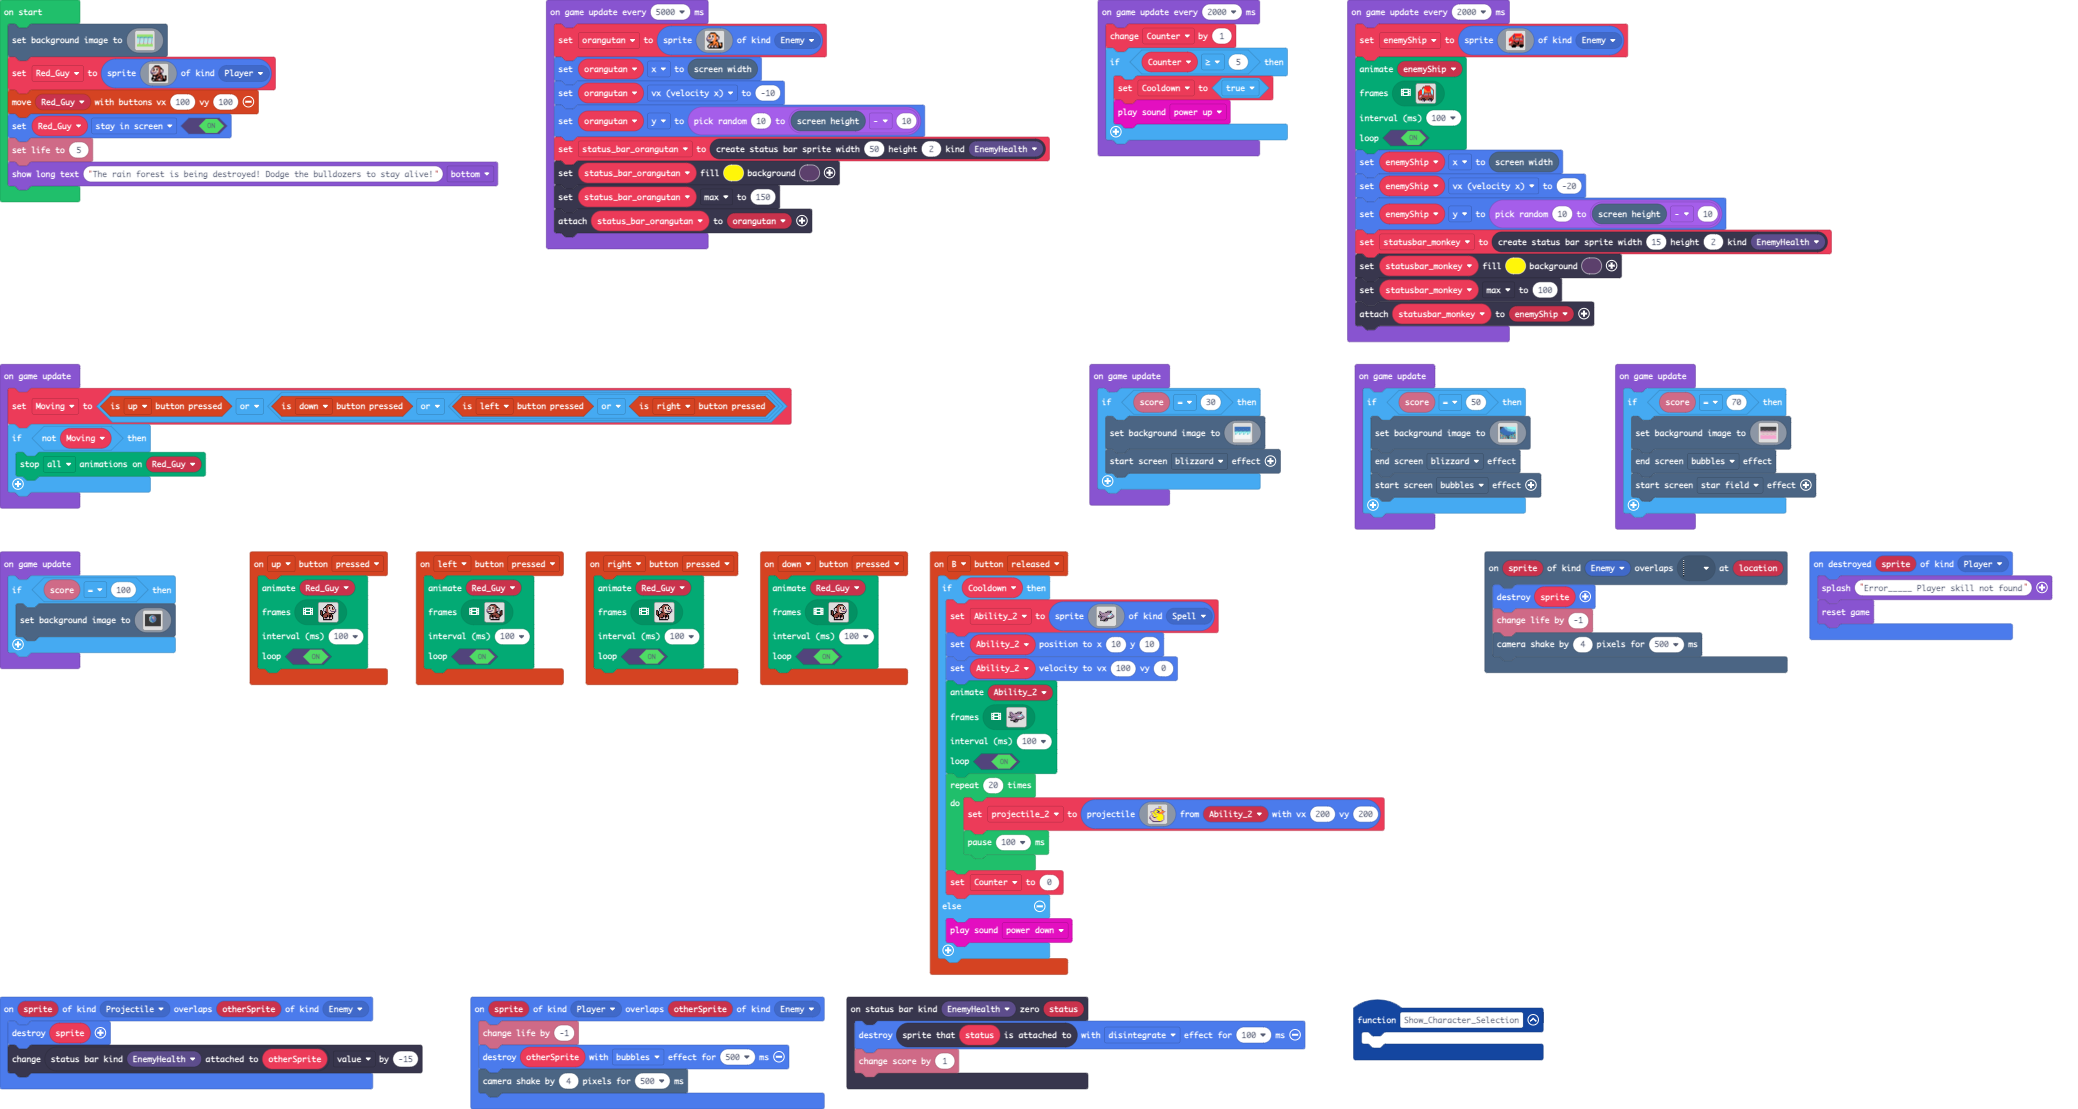
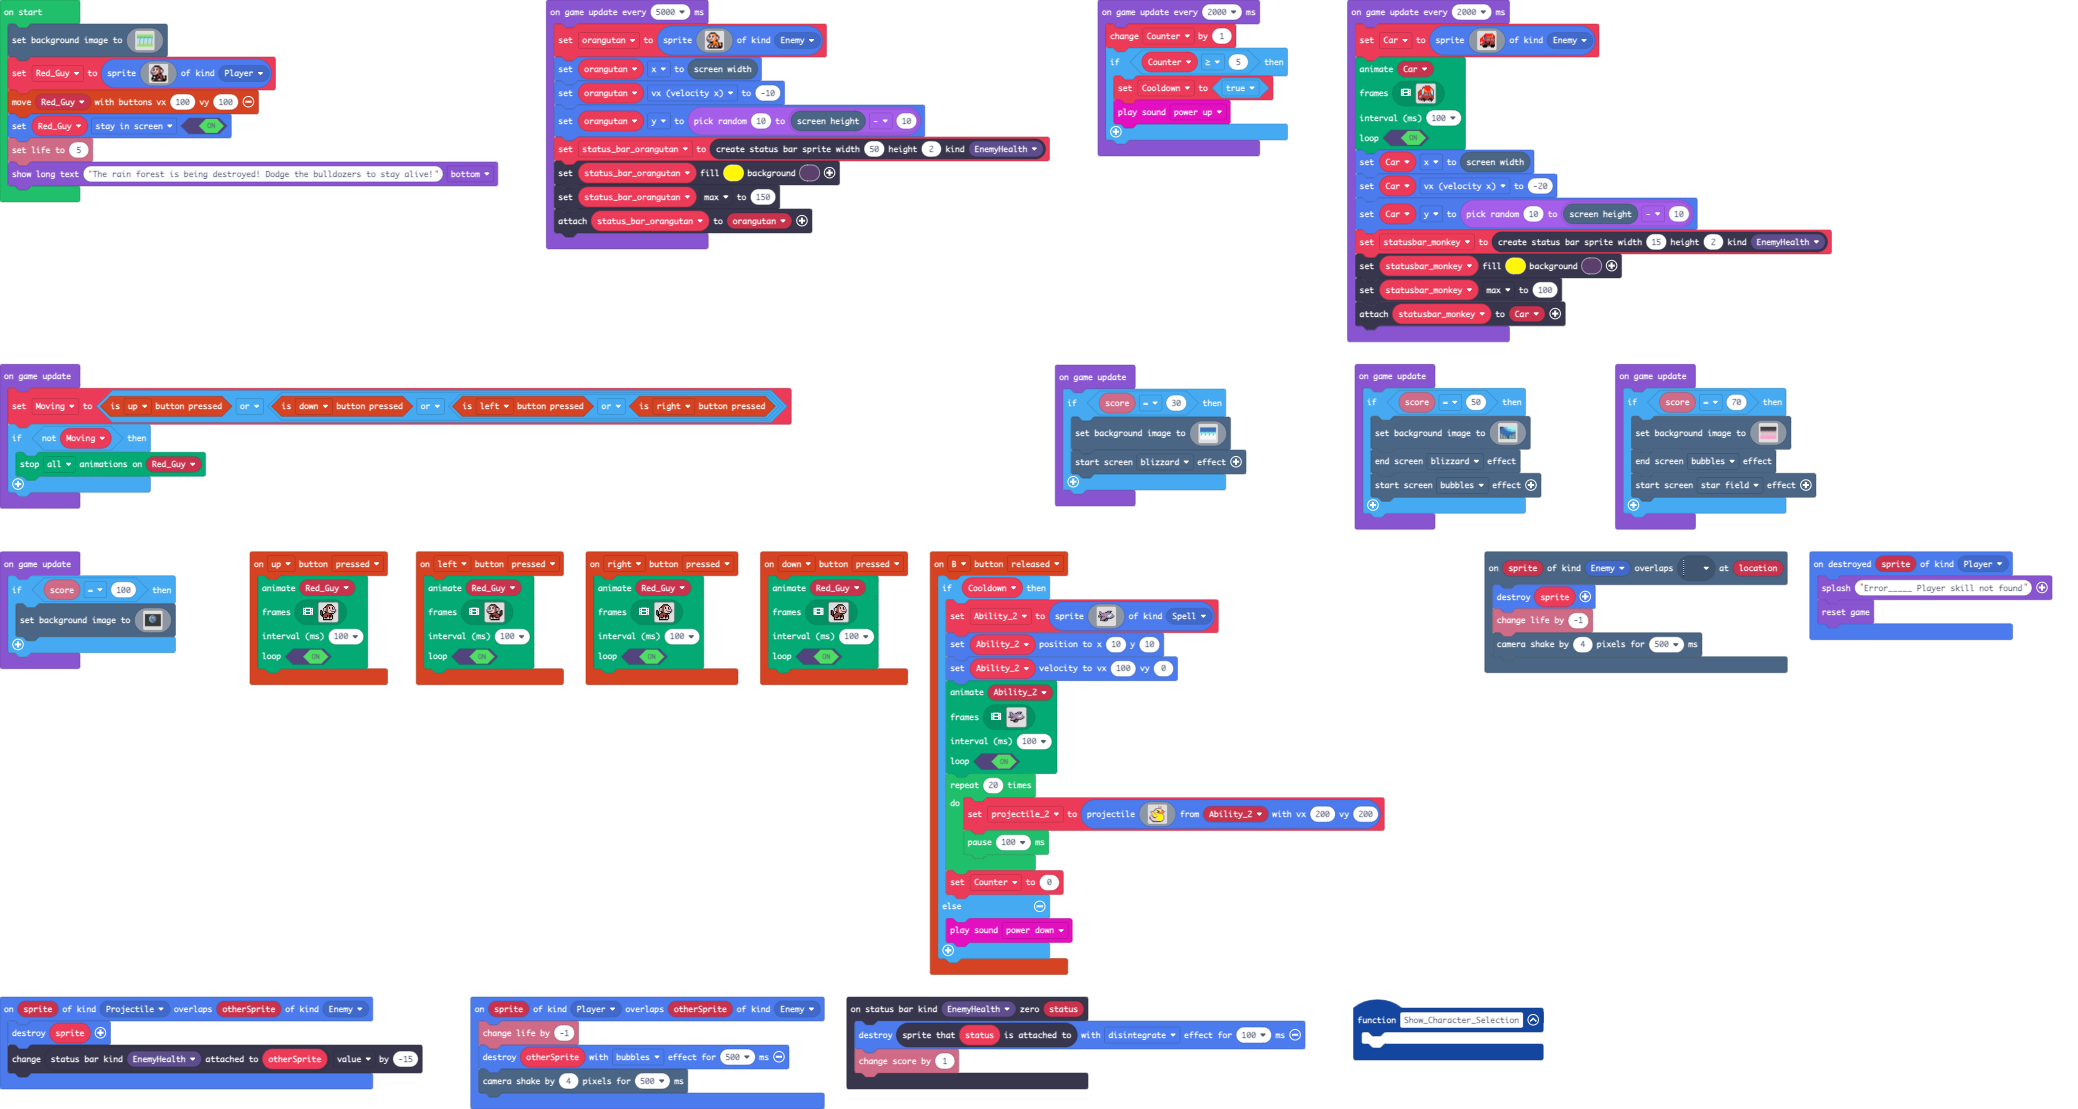
Update main.blocks, main.ts

diff --git a/main.ts b/main.ts
@@ -555,7 +555,7 @@ sprites.onOverlap(SpriteKind.Player, SpriteKind.Enemy, function (sprite, otherSp
     scene.cameraShake(4, 500)
 })
 let statusbar_monkey: StatusBarSprite = null
-let enemyShip: Sprite = null
+let Car: Sprite = null
 let status_bar_orangutan: StatusBarSprite = null
 let orangutan: Sprite = null
 let Moving = false
@@ -1258,7 +1258,7 @@ game.onUpdateInterval(2000, function () {
     }
 })
 game.onUpdateInterval(2000, function () {
-    enemyShip = sprites.create(img`
+    Car = sprites.create(img`
         . . . . . . . . . . . . . . . . 
         . . . . . . 2 2 2 2 2 2 2 2 . . 
         . . . . . 2 c 2 2 2 2 2 2 4 2 . 
@@ -1277,7 +1277,7 @@ game.onUpdateInterval(2000, function () {
         . . . . . . . . . . . . . . . . 
         `, SpriteKind.Enemy)
     animation.runImageAnimation(
-    enemyShip,
+    Car,
     [img`
         . . . . . . . e e e e e . . . . 
         . . . . . e e 2 2 2 2 2 e . . . 
@@ -1350,11 +1350,11 @@ game.onUpdateInterval(2000, function () {
     100,
     true
     )
-    enemyShip.x = scene.screenWidth()
-    enemyShip.vx = -20
-    enemyShip.y = randint(10, scene.screenHeight() - 10)
+    Car.x = scene.screenWidth()
+    Car.vx = -20
+    Car.y = randint(10, scene.screenHeight() - 10)
     statusbar_monkey = statusbars.create(15, 2, StatusBarKind.EnemyHealth)
     statusbar_monkey.setColor(5, 12)
     statusbar_monkey.max = 100
-    statusbar_monkey.attachToSprite(enemyShip)
+    statusbar_monkey.attachToSprite(Car)
 })
